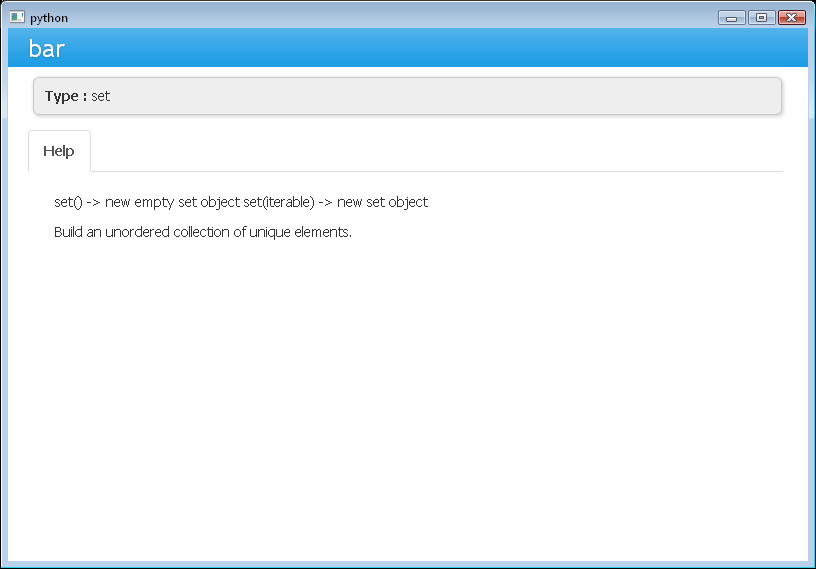
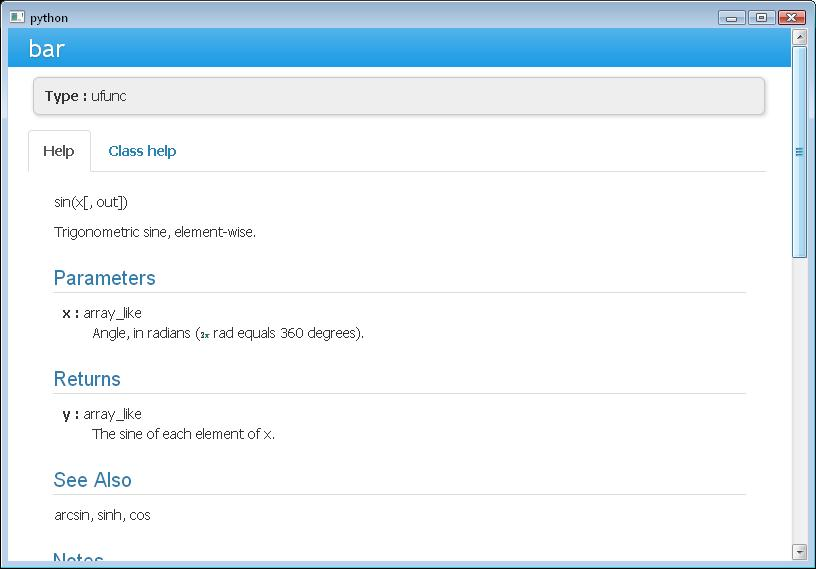
Replaced example from `set` to `numpy.sin` per review comments

diff --git a/README.md b/README.md
@@ -29,8 +29,8 @@ Example:
 if you have PyQt4 or PySide installed:
 
     from docrepr import webview
-    s = set([1,2,3])
-    webview(s, oname='bar')
+    import numpy
+    webview(numpy.sin, oname='bar')
 
 `oname` is a just a name for the object, because Python loses it when
 variable is passed to function.
